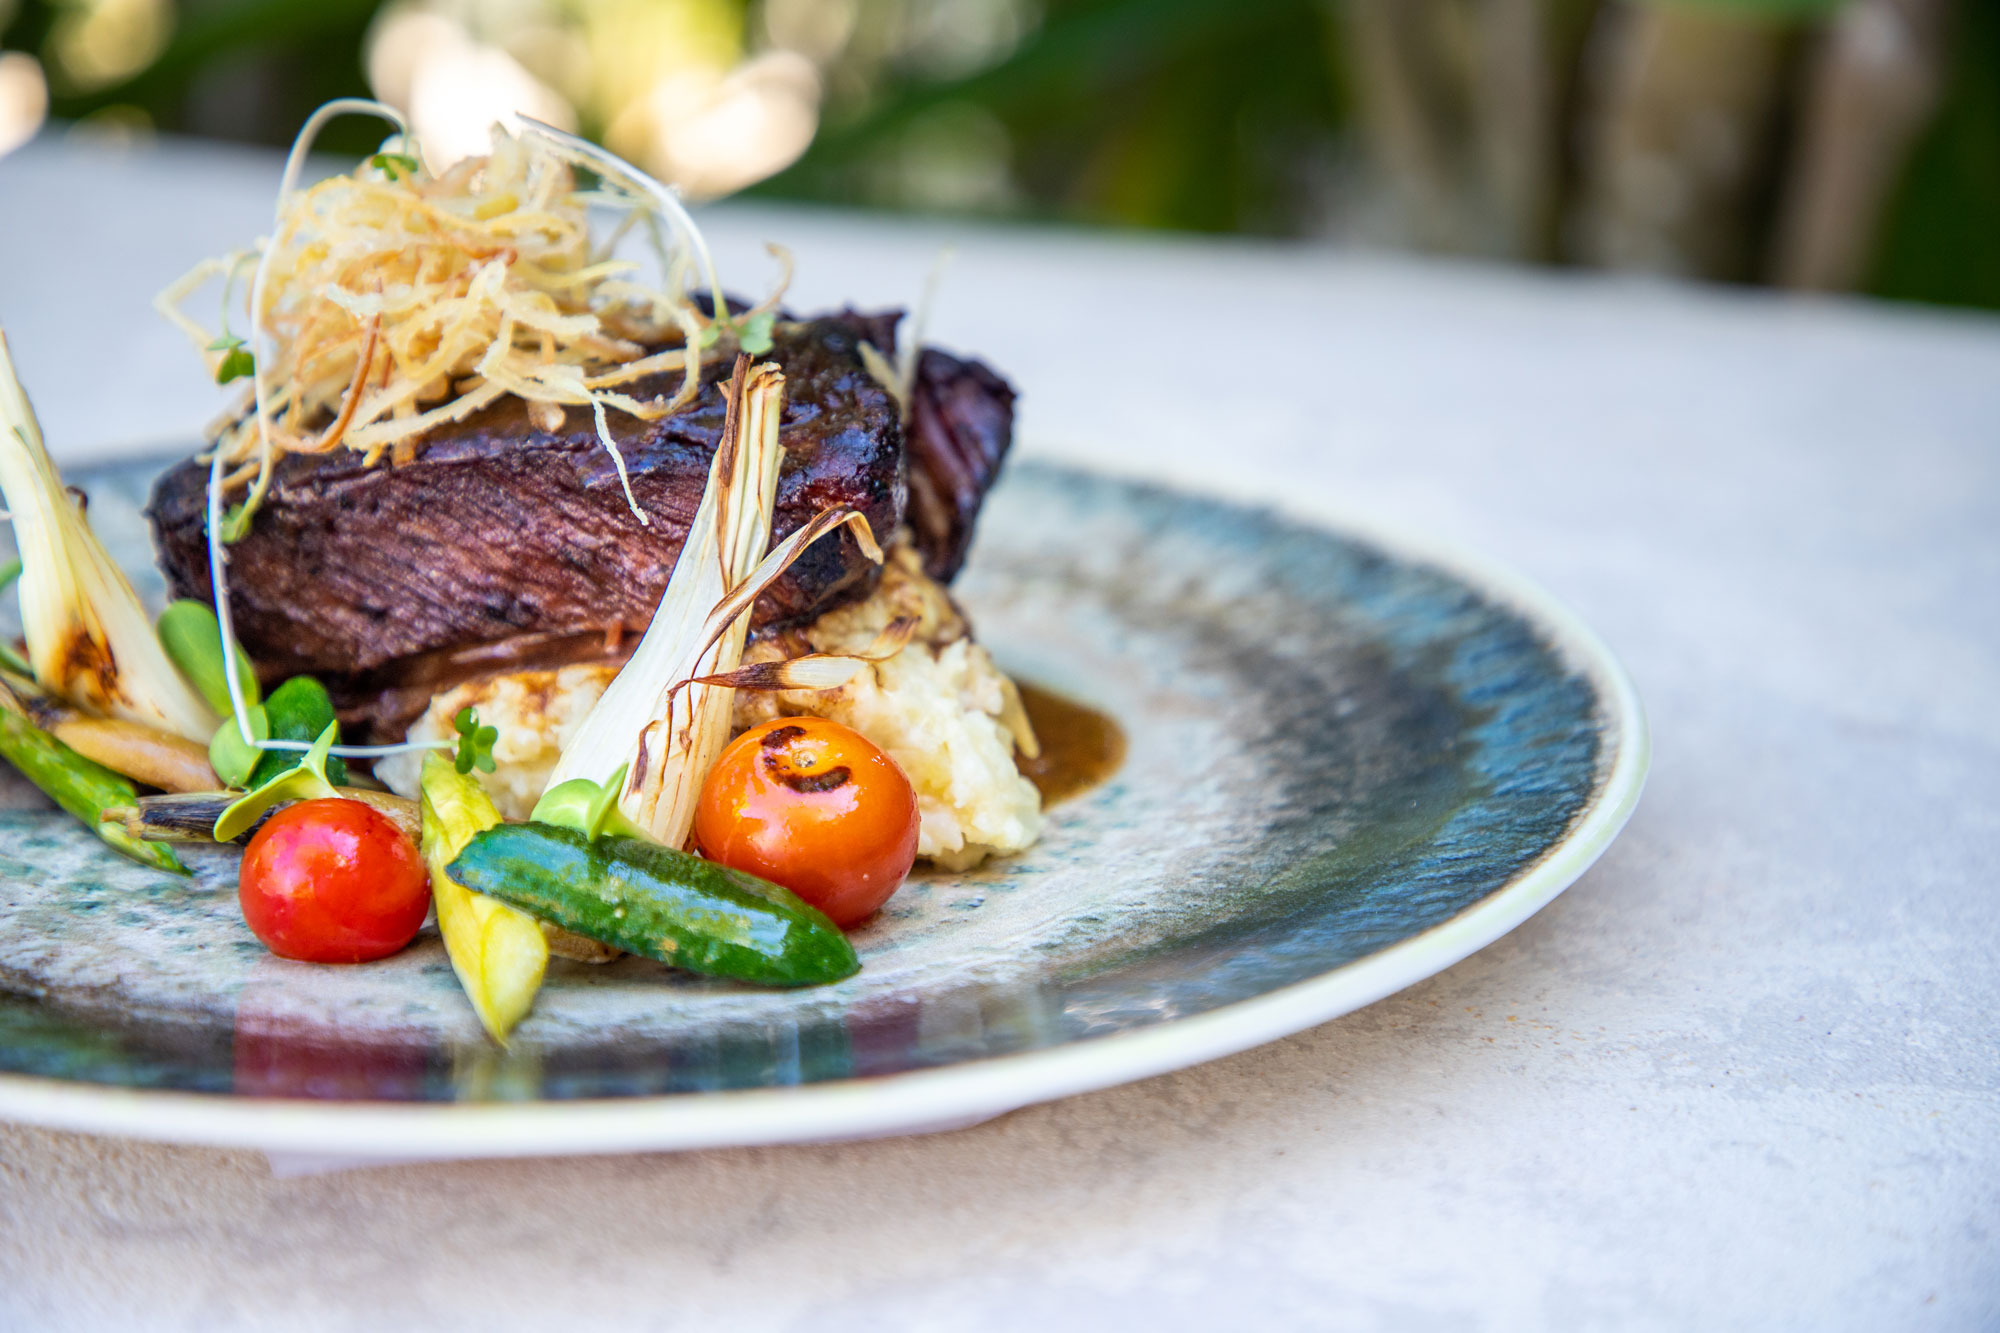
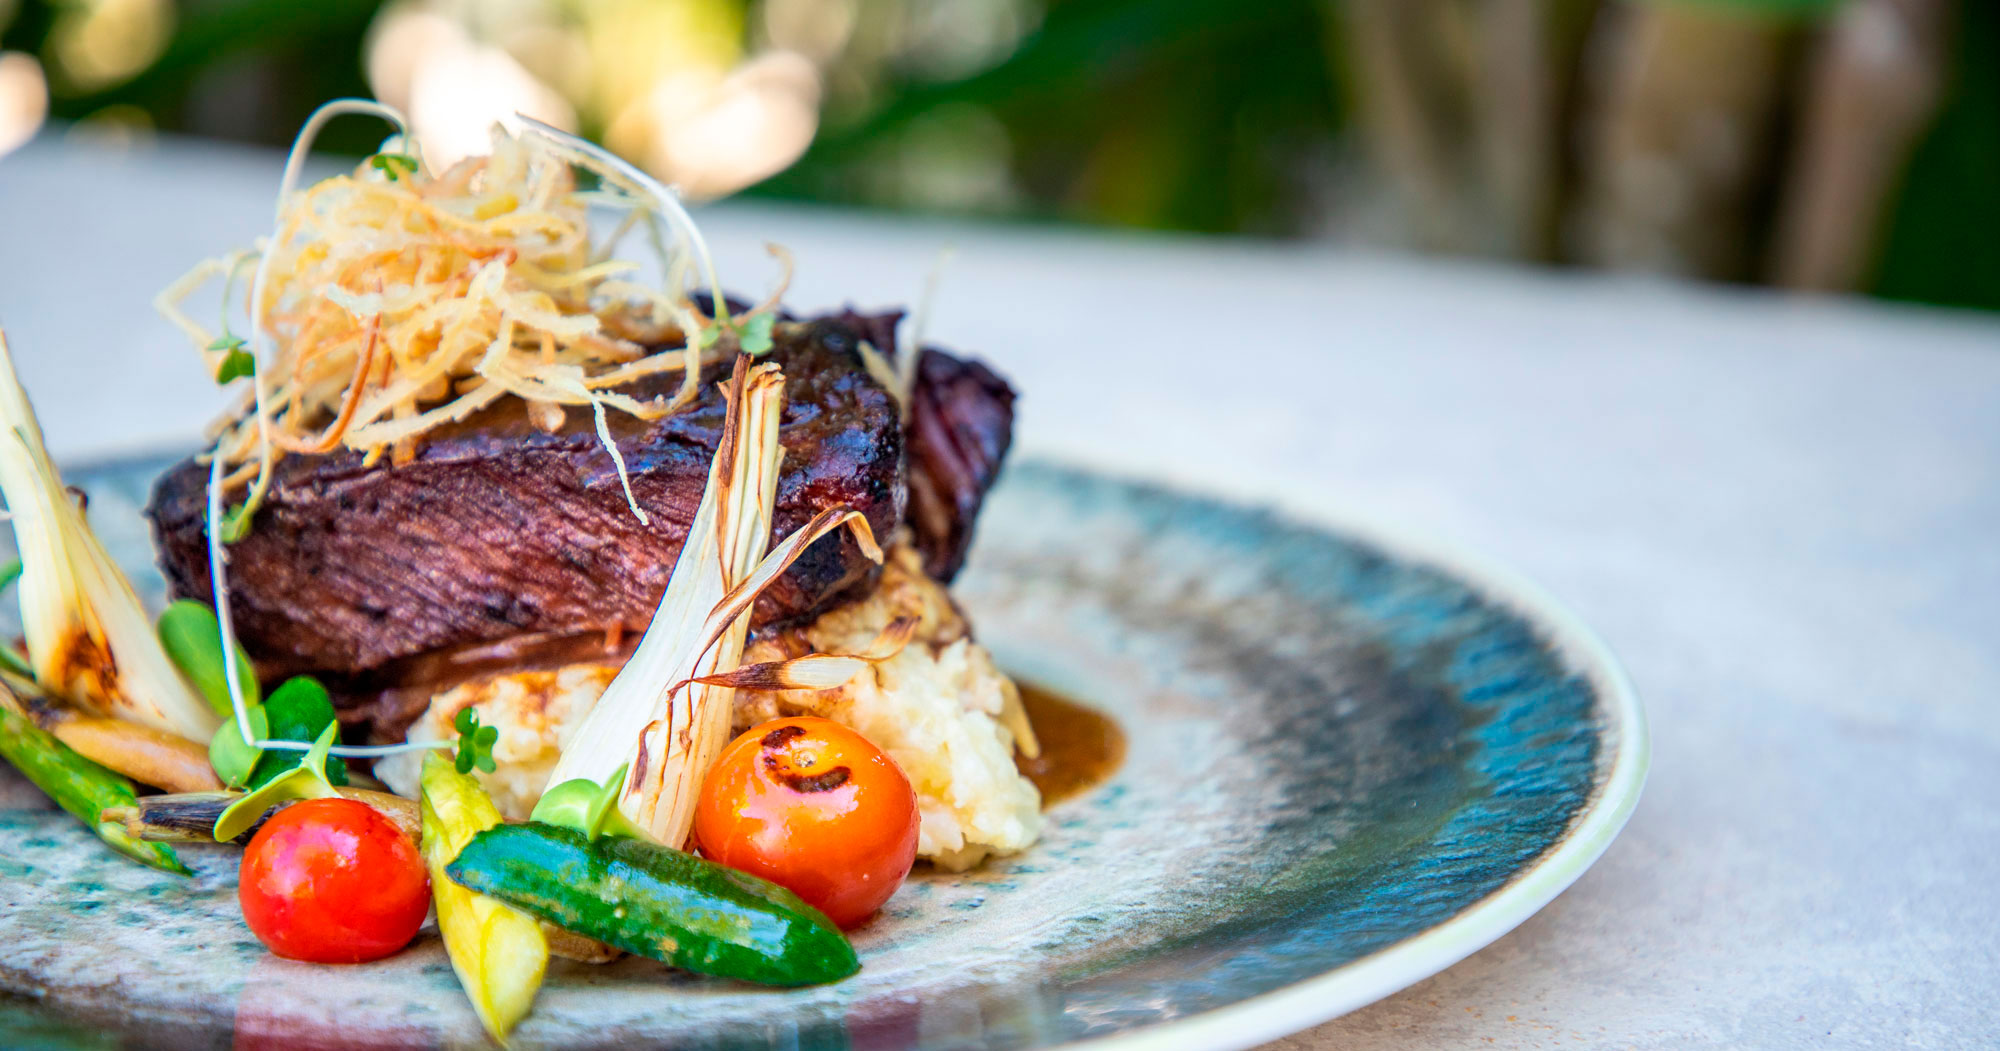
beachClub hero images added

diff --git a/pages/beachClub.js b/pages/beachClub.js
@@ -33,6 +33,10 @@ import beach2 from '../public/images/beachClub/beachclub2_small750x500.jpg'
 import beach3 from '../public/images/beachClub/BEACH-CLUB-31_small750x500.jpg'
 import beach4 from '../public/images/beachClub/galeria-2_small750x500.jpg'
 
+import hero_beachClub_01 from '../public/images/beachClub/beachclub_hero_01.jpg'
+import hero_beachClub_02 from '../public/images/beachClub/beachclub_hero_02.jpg'
+import hero_beachClub_03 from '../public/images/beachClub/beachclub_hero_03.jpg'
+
 // <<<<<<<<<images<<<<<<<<<<<<<<<<<<<<<<<<<<<<
 
 import styles from '../styles/beachClub.module.css'
@@ -48,23 +52,15 @@ export default function BeachClub() {
         sliderData={[
           {
             id: 1,
-            image: hero1,
+            image: hero_beachClub_01,
           },
           {
             id: 2,
-            image: hero2,
+            image: hero_beachClub_02,
           },
           {
             id: 3,
-            image: hero3,
-          },
-          {
-            id: 4,
-            image: hero4,
-          },
-          {
-            id: 5,
-            image: hero5,
+            image: hero_beachClub_03,
           },
         ]}
       />
